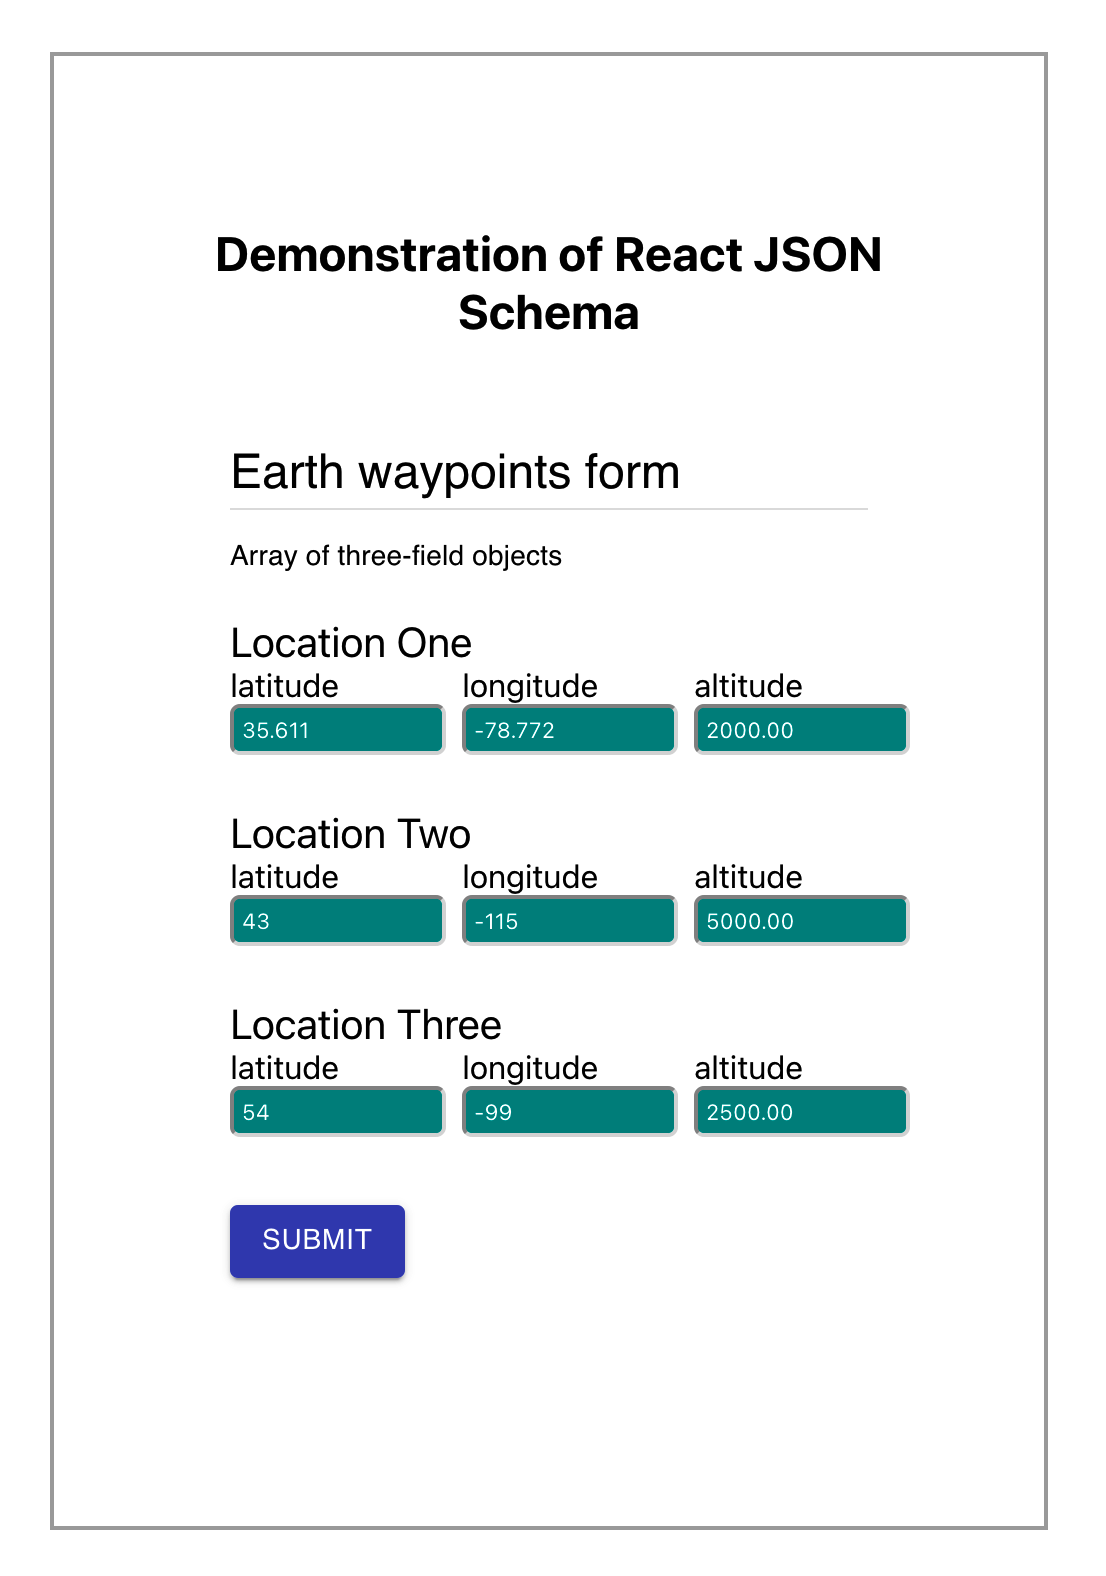
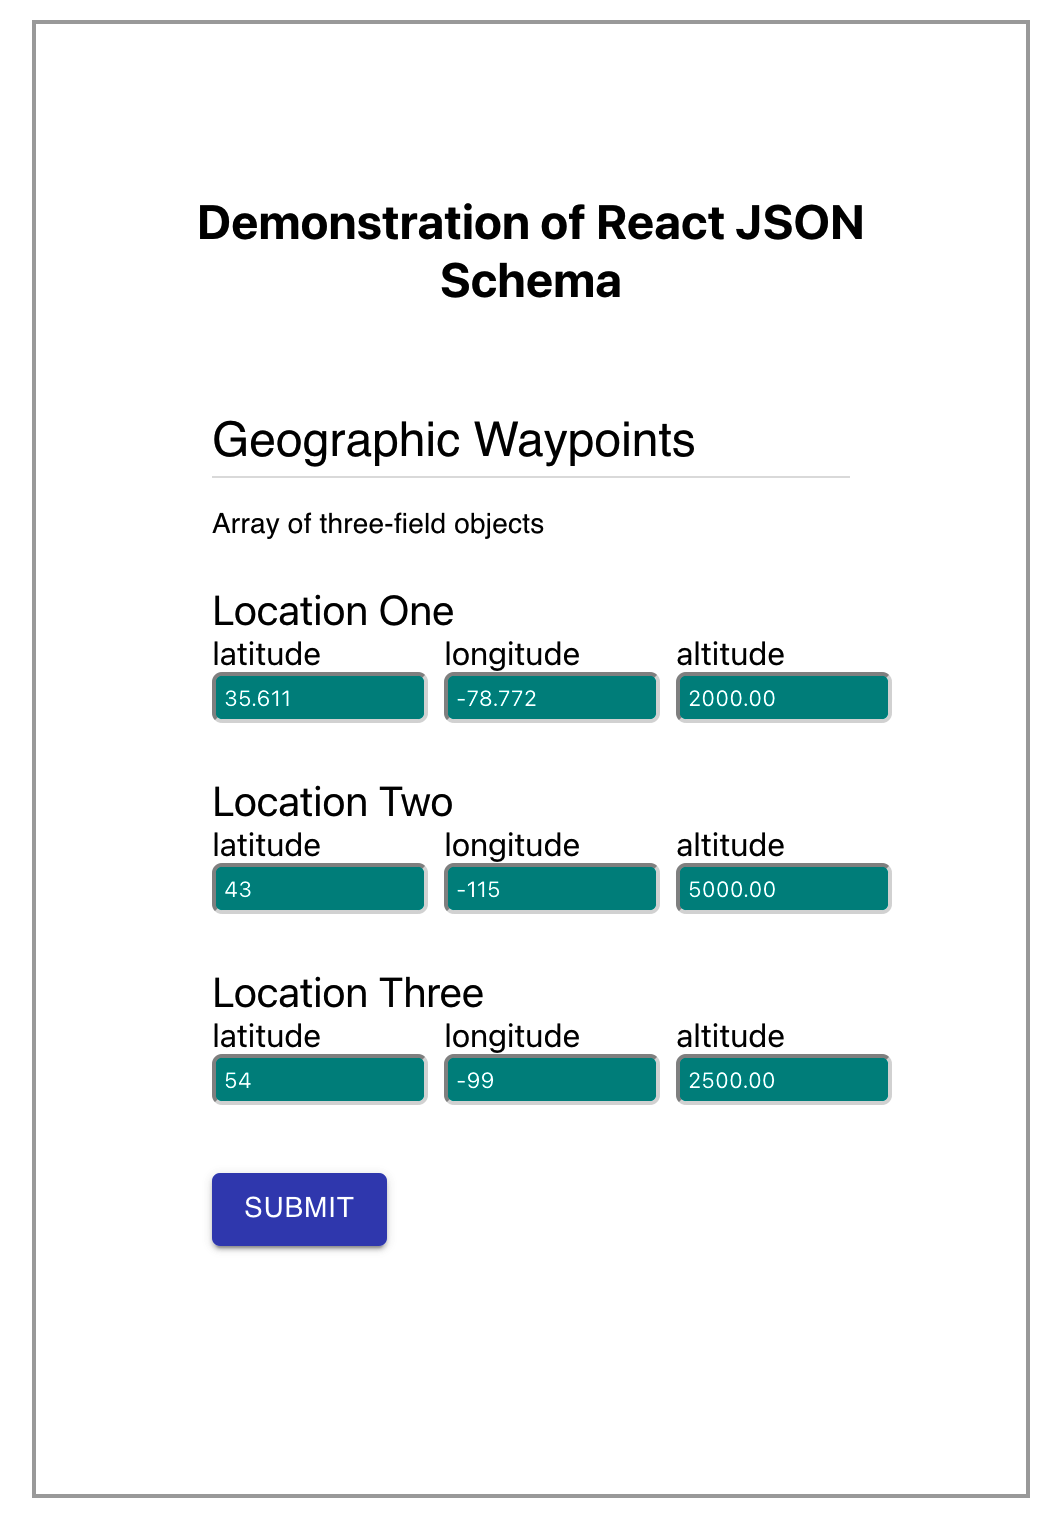
Title change in schema

Changed region(s): [[0.1871, 0.279, 0.8422, 0.8371], [0.0312, 0.0, 0.9981, 0.9921], [0.1871, 0.124, 0.811, 0.217]]

diff --git a/src/schemas/jsonSchema.js b/src/schemas/jsonSchema.js
@@ -1,5 +1,5 @@
 const jsonSchema = {
-    "title": "Earth waypoints form",
+    "title": "Geographic Waypoints",
     "description": "Array of three-field objects",
     "type": "object",
     "properties": {
